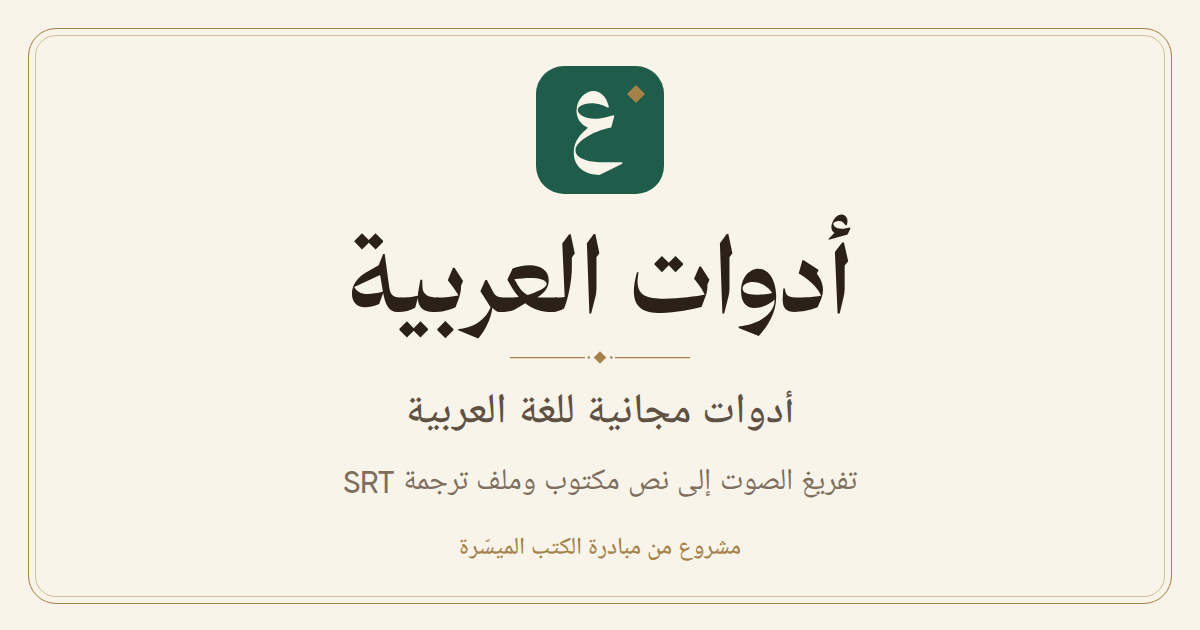
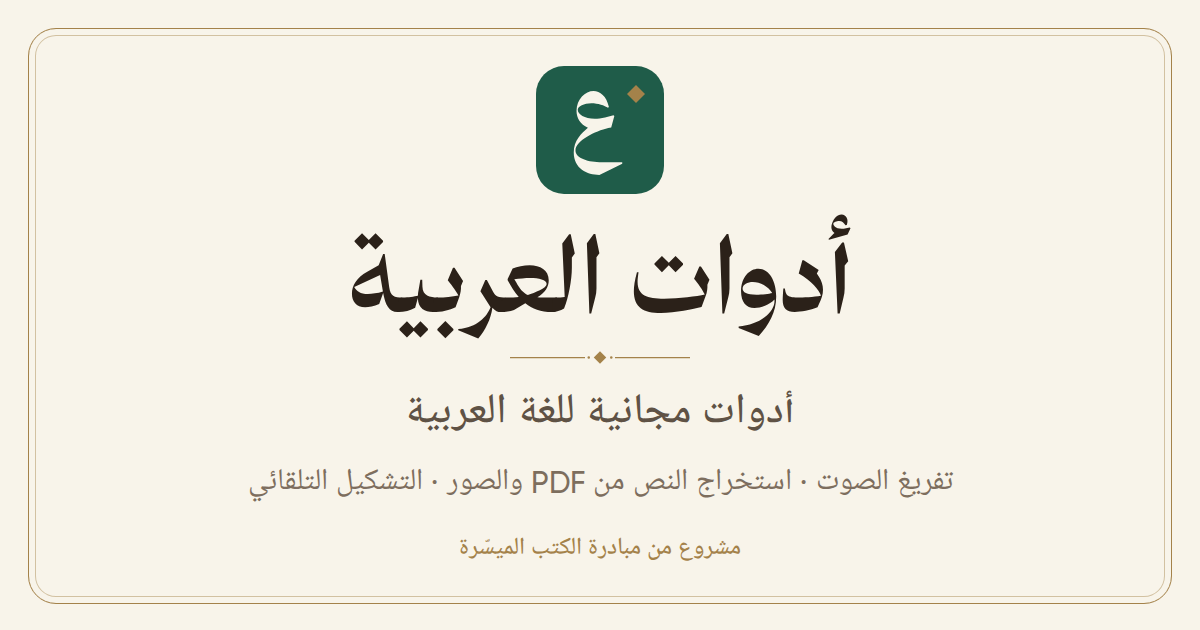
feat(ui): polish shared shell and collection previews

Changed region(s): [[0.2158, 0.7238, 0.8017, 0.7841]]

diff --git a/tests/browser/shell.spec.js b/tests/browser/shell.spec.js
@@ -1,0 +1,50 @@
+import { expect, test } from "@playwright/test";
+
+const locales = [
+  { code: "ar", direction: "rtl", skip: "انتقل إلى المحتوى الرئيسي", source: "الشيفرة المصدرية" },
+  { code: "en", direction: "ltr", skip: "Skip to main content", source: "Source code" },
+];
+
+for (const locale of locales) {
+  for (const width of [1280, 320]) {
+    for (const [name, path] of [["home", "/"], ["tool", "/transcribe"]]) {
+      test(`${name} shell in ${locale.code} at ${width}px`, async ({ page, context, baseURL }) => {
+        await context.addCookies([{ name: "lang", value: locale.code, url: baseURL }]);
+        await page.setViewportSize({ width, height: 900 });
+        await page.goto(path);
+        await page.evaluate(() => document.fonts.ready);
+        await expect(page.locator("html")).toHaveAttribute("lang", locale.code);
+        await expect(page.locator("html")).toHaveAttribute("dir", locale.direction);
+
+        await page.keyboard.press("Tab");
+        const skip = page.getByRole("link", { name: locale.skip, exact: true });
+        await expect(skip).toBeFocused();
+        await expect(skip).toBeInViewport();
+        await expect(skip).toHaveCSS("outline-style", "solid");
+        await page.keyboard.press("Enter");
+        await expect(page.getByRole("main")).toBeFocused();
+        await page.keyboard.press("Tab");
+        expect(await page.getByRole("main").evaluate((main) => main.contains(document.activeElement))).toBe(true);
+
+        await expect(page.getByRole("contentinfo").getByRole("link", { name: locale.source, exact: true }))
+          .toHaveAttribute("href", "https://github.com/ieasybooks/arabi.tools");
+        expect(await page.evaluate(() => document.documentElement.scrollWidth)).toBeLessThanOrEqual(width);
+      });
+    }
+  }
+
+  test(`skip link works without JavaScript in ${locale.code}`, async ({ browser, baseURL }) => {
+    const context = await browser.newContext({ javaScriptEnabled: false });
+    try {
+      await context.addCookies([{ name: "lang", value: locale.code, url: baseURL }]);
+      const page = await context.newPage();
+      await page.goto(baseURL);
+      await page.keyboard.press("Tab");
+      await expect(page.getByRole("link", { name: locale.skip, exact: true })).toBeFocused();
+      await page.keyboard.press("Enter");
+      await expect(page.getByRole("main")).toBeFocused();
+    } finally {
+      await context.close();
+    }
+  });
+}

diff --git a/src/app/styles.css b/src/app/styles.css
@@ -11,13 +11,14 @@
   --well: #f1ebdd;
   --text: #2b2119;
   --muted: #5f5245;
-  --faint: #7d6e5e;
+  --faint: #6e5f50;
   --line: rgb(74 52 30 / 0.16);
   --line-soft: rgb(74 52 30 / 0.09);
   --green: #1f5c49;
   --green-strong: #164536;
   --green-soft: #e4ede6;
   --gold: #a4824a;
+  --gold-text: #7d6232;
   --danger: #9f2a1d;
   --danger-soft: #f7e6df;
   --warning: #8a5a14;
@@ -110,6 +111,40 @@ a:hover {
 :focus-visible {
   outline: 2px solid var(--green);
   outline-offset: 2px;
+}
+
+/* Shared shell: keyboard access and reduced motion. */
+
+.skip-link {
+  position: fixed;
+  inset-block-start: 1rem;
+  inset-inline-start: 1rem;
+  z-index: 10;
+  max-inline-size: calc(100% - 2rem);
+  padding: 0.5rem 1rem;
+  border: 1px solid var(--green);
+  border-radius: var(--radius-control);
+  background: var(--surface);
+  font-weight: 500;
+}
+
+.skip-link:not(:focus) {
+  inline-size: 1px;
+  block-size: 1px;
+  padding: 0;
+  overflow: hidden;
+  clip-path: inset(50%);
+  white-space: nowrap;
+}
+
+@media (prefers-reduced-motion: reduce) {
+  *,
+  *::before,
+  *::after {
+    scroll-behavior: auto !important;
+    transition: none !important;
+    animation: none !important;
+  }
 }
 
 svg {
@@ -464,7 +499,7 @@ svg {
   height: 2rem;
   border-radius: 999px;
   box-shadow: inset 0 0 0 1px var(--gold);
-  color: var(--gold);
+  color: var(--gold-text);
   font-family: "Gilroy", sans-serif;
   font-size: 0.875rem;
   font-weight: 500;
@@ -843,7 +878,7 @@ progress::-moz-progress-bar {
 /* 404 */
 
 .not-found .error-code {
-  color: var(--gold);
+  color: var(--gold-text);
   font-family: "Gilroy", sans-serif;
   font-size: 4.5rem;
   font-weight: 500;

diff --git a/src/i18n.rs b/src/i18n.rs
@@ -347,12 +347,15 @@ pub struct Text {
     pub site_name: &'static str,
     /// The logo link's accessible name.
     pub home_label: &'static str,
+    pub skip_to_main: &'static str,
     pub tagline: &'static str,
     pub lead: &'static str,
     /// The site's description for search results and link previews.
     pub description: &'static str,
     /// What the link-preview image shows.
     pub preview_alt: &'static str,
+    /// Collection summary rendered by `scripts/render-images.mjs`.
+    pub preview_tools: &'static str,
     pub free: &'static str,
     pub files_deleted: &'static str,
     pub arabic_first: &'static str,
@@ -548,10 +551,12 @@ static AR: Text = Text {
     name: "العربية",
     site_name: "أدوات العربية",
     home_label: "الصفحة الرئيسية",
+    skip_to_main: "انتقل إلى المحتوى الرئيسي",
     tagline: "أدوات مجانية للغة العربية",
     lead: "أدوات بسيطة لمن يعمل بالعربية: ارفع ملفك واحصل على النتيجة، دون حساب أو تثبيت.",
     description: "أدوات مجانية لتفريغ الصوت واستخراج النص من ملفات PDF والصور وتشكيل النص العربي، دون حساب أو تثبيت.",
     preview_alt: "شعار أدوات العربية، وتحته: أدوات مجانية للغة العربية.",
+    preview_tools: "تفريغ الصوت · استخراج النص من PDF والصور · التشكيل التلقائي",
     free: "مجانية بلا حساب",
     files_deleted: "تُحذف ملفاتك تلقائيًا",
     arabic_first: "للعربية أولًا",
@@ -733,10 +738,12 @@ static EN: Text = Text {
     name: "English",
     site_name: "arabi.tools",
     home_label: "Homepage",
+    skip_to_main: "Skip to main content",
     tagline: "Free tools for the Arabic language",
     lead: "Simple tools for working in Arabic. Upload a file and get the result, with no account and nothing to install.",
     description: "Free tools for audio transcription, extracting text from PDFs and images, and Arabic diacritization, with no account and nothing to install.",
     preview_alt: "The arabi.tools logo above the words: Free tools for the Arabic language.",
+    preview_tools: "Audio transcription · PDF/image text recognition · Automatic diacritization",
     free: "Free, no account",
     files_deleted: "Files deleted automatically",
     arabic_first: "Arabic first",

diff --git a/src/app.rs b/src/app.rs
@@ -57,7 +57,7 @@ const PREVIEW_EN: Asset = asset!("./app/images/og-en.png");
 const THEME_COLOR: &str = "#f8f4ea";
 
 /// The site's source code.
-const SOURCE_URL: &str = "https://github.com/ieasybooks/arlang.tools";
+const SOURCE_URL: &str = "https://github.com/ieasybooks/arabi.tools";
 
 /// The initiative behind the site.
 const INITIATIVE_URL: &str = "https://ieasybooks.com";
@@ -194,6 +194,7 @@ async fn layout(cx: &Cx, slot: Slot<'_>) -> Result<impl View> {
                 topcoat::runtime::script()
             </head>
             <body>
+                <a class="skip-link" href="#main-content">(text.skip_to_main)</a>
                 <header class="site-header">
                     <div class="container header-inner">
                         <a
@@ -232,7 +233,7 @@ async fn layout(cx: &Cx, slot: Slot<'_>) -> Result<impl View> {
                         </form>
                     </div>
                 </header>
-                <main class="page">
+                <main class="page" id="main-content" tabindex="-1">
                     error_boundary(
                         fallback: move |error| {
                             if error.downcast_ref::<NotFoundError>().is_none() {
@@ -294,7 +295,10 @@ async fn head_meta(cx: &Cx, locale: Locale) -> Result<impl View> {
         <meta property="og:image" content=(preview.as_str())>
         <meta property="og:image:width" content="1200">
         <meta property="og:image:height" content="630">
-        <meta property="og:image:alt" content=(text.preview_alt)>
+        <meta
+            property="og:image:alt"
+            content=(format!("{} {}", text.preview_alt, text.preview_tools))
+        >
         <meta property="og:locale" content=(locale.og_locale())>
         for other in Locale::ALL {
             if other != locale {

diff --git a/README.md b/README.md
@@ -12,7 +12,7 @@ For OCR, set `DRIVE_SERVICE_ACCOUNTS` to a JSON array of service-account keys wi
 
 For diacritization, provision the pinned models and ONNX Runtime 1.31.0 before starting the site, then set `TASHKEEL_MODEL_CACHE` to the shared model cache and `ORT_DYLIB_PATH` to the runtime library. The container includes both; local setup and real-model test commands are in [deployment](docs/deploy.md#diacritization-runtime-and-models). Missing or invalid files leave diacritization temporarily unavailable while other configured tools keep working. Inference uses the `tashkeel` 0.1.0 Rust library on the CPU; submitting a job never downloads models.
 
-Inter and IBM Plex Sans Arabic are [vendored with their licenses](src/app/fonts/README.md), so asset bundling needs no font downloads.
+Gilroy, Noto Naskh Arabic UI, Thmanyah Serif Display and Kitab are [bundled locally](src/app/fonts/README.md), so asset bundling needs no font downloads.
 
 Run the checks listed in [AGENTS.md](AGENTS.md#verification) before sending changes; [tests/README.md](tests/README.md) describes the integration tests.
 

diff --git a/src/app/fonts/README.md b/src/app/fonts/README.md
@@ -2,9 +2,11 @@
 
 These WOFF2 files are bundled with the site.
 
-- Gilroy Regular, Medium and Bold (400, 500, 700): English text and headings.
-- Noto Naskh Arabic UI, variable (400 to 700): Arabic text.
+- Gilroy Regular, Medium and Bold (400, 500, 700): Latin text and headings.
+- Noto Naskh Arabic UI, variable (400 to 700): Arabic interface text.
 - Thmanyah Serif Display Medium (500): Arabic headings.
-- Kitab Regular (400): Arabic transcripts.
+- Kitab Regular (400): Arabic transcripts, recognized text and diacritization text.
 
 `src/app.rs` declares them with their weights and Unicode ranges, so Latin characters come from Gilroy and Arabic characters from the Arabic fonts. Topcoat bundles these local files, so builds and integration tests do not download fonts.
+
+Font license files are not included in this directory.

diff --git a/src/app/images/README.md b/src/app/images/README.md
@@ -3,3 +3,5 @@
 `logo.svg` is the site's logo: the letter ع from Thmanyah Serif Display, the font of the Arabic headings, in paper color on a green tile, with a gold diamond like the ornament under page titles.
 
 The other files are rendered from it and from the bundled fonts by `scripts/render-images.mjs`: `favicon.ico` (16, 32 and 48 pixels), `icon-192.png` and `icon-512.png` for the web manifest, `apple-touch-icon.png`, and the 1200 by 630 link-preview cards `og-ar.png` and `og-en.png`. After changing the logo or the cards' text, run `npm ci --prefix tests/browser`, then `node scripts/render-images.mjs` from the repository root.
+
+Both cards describe the collection: audio transcription, PDF/image text recognition and automatic diacritization. Their collection summaries come from `preview_tools` in `src/i18n.rs`.
